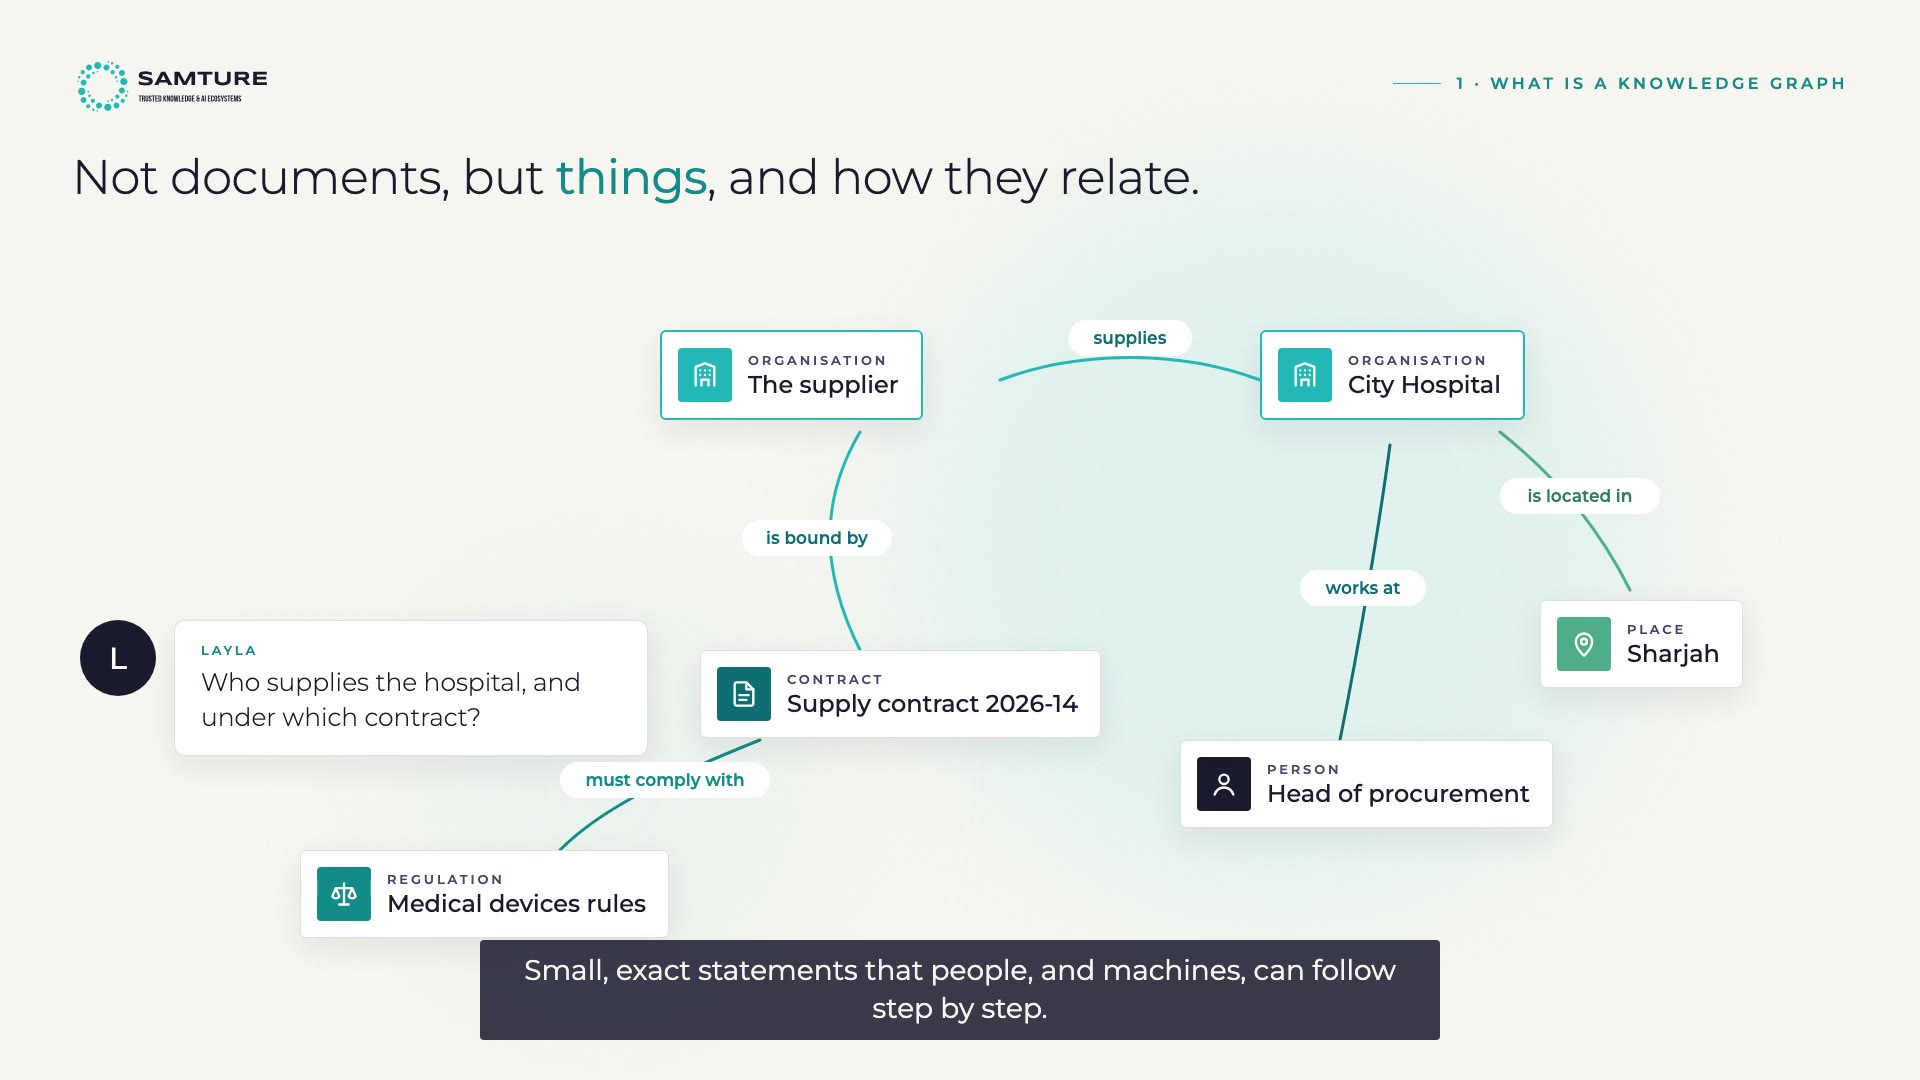
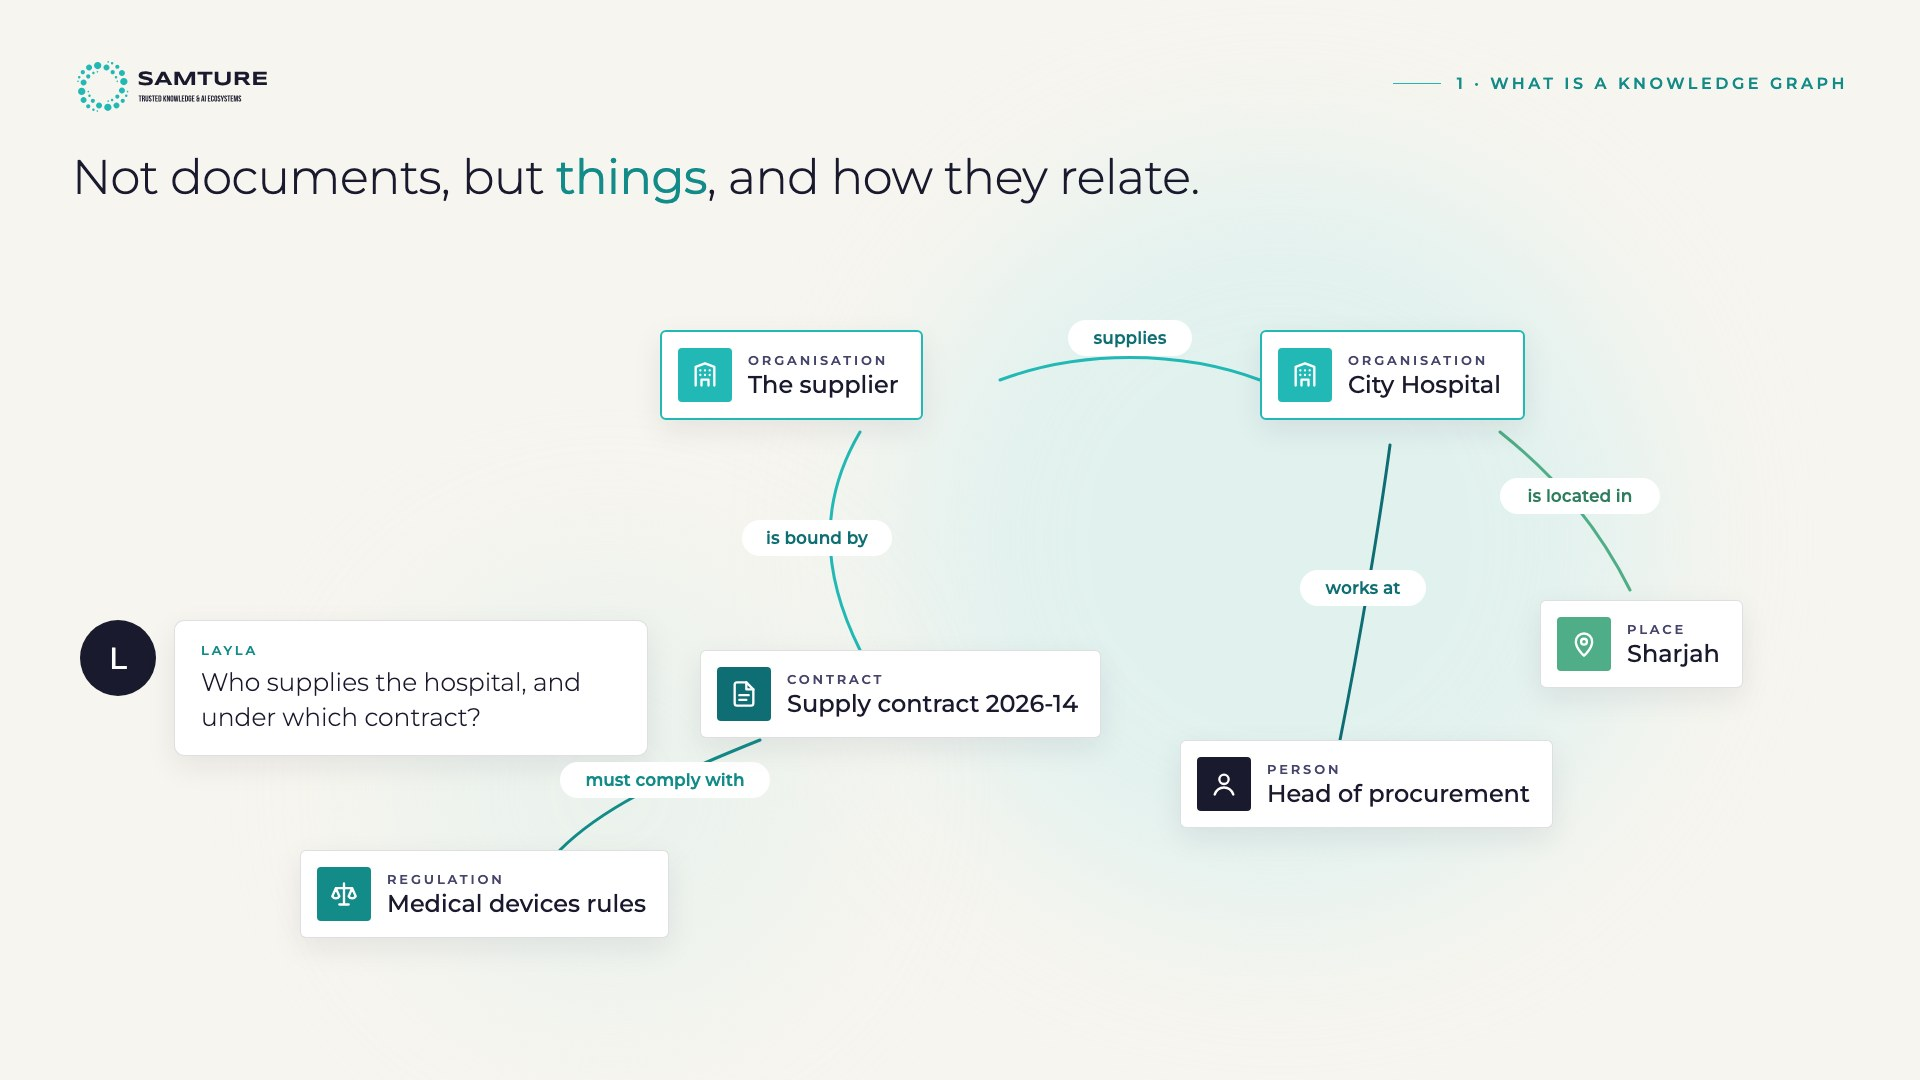
Kennisgraafpagina: eigen deelbeeld (poster zonder ondertitel) voor LinkedIn en zoekmachines

Changed region(s): [[0.25, 0.8556, 0.75, 0.9778]]

diff --git a/knowledge-graph.html b/knowledge-graph.html
@@ -12,7 +12,7 @@
 <meta property="og:title" content="What is a knowledge graph, and why does AI need one? — Samture">
 <meta property="og:description" content="A knowledge graph stores what an organisation knows as things and how they relate, with shared meaning, rules that check themselves, and every fact traceable to its source and moment. Why it lets AI answer from your facts, faster and the same every time.">
 <meta property="og:url" content="https://samture.com/knowledge-graph.html">
-<meta property="og:image" content="https://samture.com/og-image.png">
+<meta property="og:image" content="https://samture.com/knowledge-graph-poster.jpg">
 <meta name="twitter:card" content="summary_large_image">
 <script async src="https://plausible.io/js/pa-tBIF4Zujm-v9OW96RcvFQ.js"></script>
 <script>
